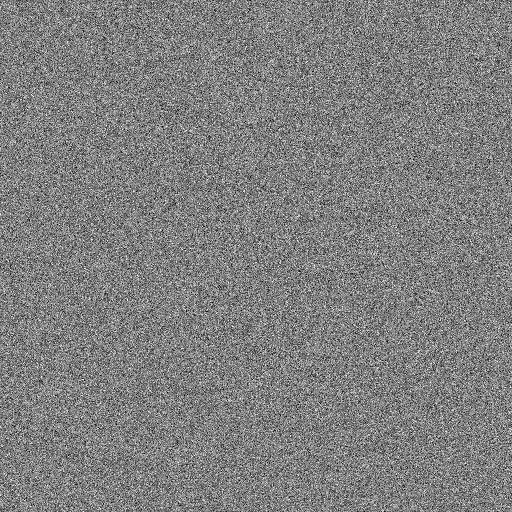
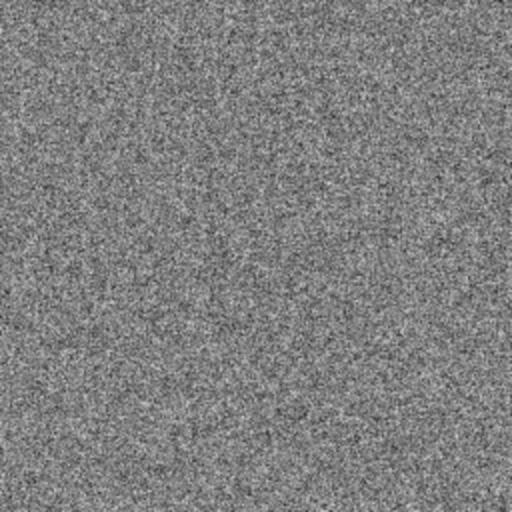
muestra: titulares centrados, márgenes parejos, efectos elegibles desde el guion, grano liviano
Claude-Session: https://claude.ai/code/session_01DZGBjr9SF15dibQgfaRJkd

diff --git a/plantilla/assets/lib/collage.js b/plantilla/assets/lib/collage.js
@@ -366,18 +366,32 @@
     var full = el.textContent;
     var dim = num(el, "data-dim", -1);
     el.textContent = "";
-    var txt = document.createElement("span"), cur = document.createElement("span");
-    cur.className = "cursor"; cur.textContent = "|";
-    el.appendChild(txt); el.appendChild(cur);
+    // lo que falta escribir ocupa su lugar (invisible) para que el texto centrado no se corra mientras se tipea
+    var txt = document.createElement("span"), cur = document.createElement("span"), rest = document.createElement("span");
+    cur.className = "cursor"; cur.textContent = "|"; rest.style.visibility = "hidden";
+    el.appendChild(txt); el.appendChild(cur); el.appendChild(rest);
     return function (t) {
       var n = Math.max(0, Math.min(full.length, Math.floor((t - t0) * cps) + 1));
       txt.textContent = t >= t0 ? full.slice(0, n) : "";
+      rest.textContent = t >= t0 ? full.slice(n) : full;
       var done = (t - t0) * cps >= full.length;
-      cur.style.opacity = t >= t0 && (!done || Math.floor(t * 2.5) % 2 === 0) && t < exitAt ? "1" : "0";
+      var tipos = el.parentNode.querySelectorAll(".cg-type");
+      var ultimo = tipos[tipos.length - 1] === el;   // el cursor queda titilando solo en la última línea
+      cur.style.opacity = t >= t0 && t < exitAt && (!done || (ultimo && Math.floor(t * 2.5) % 2 === 0)) ? "1" : "0";
       var q = prog(t, exitAt, 0.18);
       var dk = dim >= 0 ? 1 - 0.55 * prog(t, dim, 0.3) : 1;
       el.style.opacity = t >= t0 ? ((1 - q) * dk).toFixed(3) : "0";
       el.style.transform = "translateX(" + px(lerp(0, -1300, ease.inCubic(q))) + ")";
+    };
+  }
+
+  // Trazo de marcador recto (tachado): una barra que se estira de izquierda a derecha.
+  function mountBar(el) {
+    var t0 = num(el, "data-t", 0), d = num(el, "data-dur", 0.25), rot = num(el, "data-rot", -3);
+    return function (t) {
+      var k = ease.outCubic(prog(t, t0, d));
+      el.style.opacity = t >= t0 ? "0.92" : "0";
+      el.style.transform = "rotate(" + rot + "deg) scaleX(" + k.toFixed(4) + ")";
     };
   }
 
@@ -390,13 +404,13 @@
     };
   }
 
-  // Película vieja: grano que cambia 12 veces por segundo y una luz cálida que respira.
+  // Película vieja: grano que cambia 8 veces por segundo y una luz cálida que respira.
   function mountFilm(el, seed) {
     var g = el.querySelector(".grano"), l = el.querySelector(".luz");
     return function (t) {
-      var f = Math.floor(t * 12), r = rng(seed * 131 + f);
+      var f = Math.floor(t * 8), r = rng(seed * 131 + f);
       g.style.backgroundPosition = Math.floor(r() * 512) + "px " + Math.floor(r() * 512) + "px";
-      g.style.opacity = (0.16 + 0.05 * r()).toFixed(3);
+      g.style.opacity = (0.09 + 0.03 * r()).toFixed(3);
       var a = t * 0.35 + seed;
       l.style.opacity = (0.22 + 0.14 * Math.sin(a * 1.7)).toFixed(3);
       l.style.transform = "translate(" + px(260 * Math.sin(a)) + "," + px(380 * Math.cos(a * 0.8)) + ")";
@@ -443,6 +457,7 @@
     each(stage, ".cg-fade", function (el) { parts.push(mountFade(el, exitAt)); });
     each(stage, ".cg-type", function (el) { parts.push(mountType(el, exitAt)); });
     each(stage, ".cg-flash", function (el) { parts.push(mountFlash(el)); });
+    each(stage, ".cg-bar", function (el) { parts.push(mountBar(el)); });
     each(stage, ".cg-film", function (el) { parts.push(mountFilm(el, seed)); });
     var rip = stage.querySelector(".cg-rip");
     var foco = (stage.getAttribute("data-foco") || "").split(",").map(parseFloat);

diff --git a/plantilla/assets/lib/fabrica.css b/plantilla/assets/lib/fabrica.css
@@ -113,3 +113,8 @@
 .o-mapa .tierra path { fill: #F4EEDD; stroke: #1E1B18; stroke-opacity: .35; stroke-width: 1.4; stroke-linejoin: round; }
 .o-mapa .tierra-r path { fill: var(--acc); stroke: #1E1B18; stroke-opacity: .5; stroke-width: 1.6; }
 .o-mapa .pin { width: 34px; height: 34px; border-radius: 50%; background: var(--acc2); border: 6px solid #FFFDF7; box-shadow: 0 3px 6px rgba(0,0,0,.3); }
+.cg-kin.centro, .cg-type.centro { transform-origin: 50% 60%; }
+.cg-kin .kt { position: relative; display: inline-block; }
+.cg-kin.box.centro { padding: 0; background: none; }
+.cg-kin.box.centro .kt { padding: 6px 26px 0; background: var(--acc); }
+.cg-bar { position: absolute; left: -3%; width: 106%; border-radius: 8px; transform-origin: 0 50%; opacity: 0; }

diff --git a/fabrica/escenas.py b/fabrica/escenas.py
@@ -35,6 +35,8 @@ PALETAS = {
 }
 
 TRANS = ["up", "left", "right", "zoom", "rip"]   # rip = el papel se rasga y deja ver la escena nueva
+TRANSICIONES = {"rasgado": "rip", "arriba": "up", "izquierda": "left", "derecha": "right", "zoom": "zoom", "corte": "cut",
+                "rip": "rip", "up": "up", "left": "left", "right": "right", "cut": "cut"}
 MARCADOR = "#D2402E"   # rojo de marcador para círculos, flechas y tachados
 
 
@@ -116,16 +118,24 @@ class Escena:
         else:
             self.fx("papel", t, 0.18)
 
-    def kin(self, texto, t, x, y, size, desde="zoom", clase="", extra=""):
+    def kin(self, texto, t, x, y, size, desde="zoom", clase="", extra="", dentro=""):
+        """Texto gigante. x=None lo centra (lo mide el navegador): en todo el ancho arriba de y≈850 y, más abajo,
+        en la franja libre de los botones de las apps."""
         cls = ("acc " if es_acento(texto) else "") + clase
+        if x is None:
+            a, b = (110, 910) if y + size * 0.86 > 850 else (70, 1010)
+            pos, cls = f"left: {a}px; width: {b - a}px; text-align: center", cls + " centro"
+        else:
+            pos = f"left: {x}px"
+        cuerpo = f'<span class="kt">{escape(limpio(texto), quote=False)}{dentro}</span>'
         if desde == "type":   # máquina de escribir: letra por letra
             self.world.append(f'<div class="cg-type cg-kin-type {cls.strip()}" data-t="{t}" data-cps="18" {extra} '
-                              f'style="left: {x}px; top: {y}px; font-size: {size}px">{escape(limpio(texto), quote=False)}</div>')
+                              f'style="{pos}; top: {y}px; font-size: {size}px">{escape(limpio(texto), quote=False)}</div>')
             for i in range(len(limpio(texto))):
                 self.fx("tecla", t + i / 18, 0.12, pan=(i / max(1, len(texto)) - 0.5) * 0.6)
             return
         self.world.append(f'<div class="cg-kin {cls.strip()}" data-t="{t}" data-from="{desde}" {extra} '
-                          f'style="left: {x}px; top: {y}px; font-size: {size}px">{escape(limpio(texto), quote=False)}</div>')
+                          f'style="{pos}; top: {y}px; font-size: {size}px">{cuerpo}</div>')
         self.fx("golpe", t + 0.1, 0.42)
 
     def objeto(self, spec, t, cx, top, rot, max_h=560, max_w=900):
@@ -210,29 +220,27 @@ def golpe(E, esc):
     alto = sum(s * 0.86 + 14 for s in sizes)
     y = 270 + (980 - alto) / 2
     if esc.get("kicker"):
-        E.world.append(f'<div class="kick cg-fade" data-t="{PUSH + 0.05}" style="left: 76px; top: {y - 110:.0f}px">{escape(esc["kicker"], quote=False)}</div>')
+        E.world.append(f'<div class="kick cg-fade" data-t="{PUSH + 0.05}" style="left: 0; width: 1080px; text-align: center; top: {y - 110:.0f}px">{escape(esc["kicker"], quote=False)}</div>')
     desdes = ["zoom", "left", "up", "right", "zoom", "down"]
     E.r.shuffle(desdes)
-    estilo = esc.get("estilo") or ("impacto" if E.linea.get("emocion", 0.5) >= 0.85 else "")
+    estilo = esc.get("estilo") or ("impacto" if E.linea.get("emocion", 0.5) >= 0.85 else "normal")
+    if estilo not in ("normal", "maquina", "impacto"):
+        raise SystemExit(f"línea {E.idx}: estilo de golpe desconocido '{estilo}' (hay: normal, maquina, impacto)")
     desdes = ["slam" if estilo == "impacto" else "zoom"] + desdes
     for i, (p, s) in enumerate(zip(palabras, sizes)):
         t = E.cuando(item_en(p), E.reparto(i, len(palabras)))
         clase = "box" if es_acento(item_txt(p)) and E.r.random() < 0.35 and estilo != "maquina" else ""
         txt = item_txt(p)
         txt = ("*" + limpio(txt).upper() + "*") if es_acento(txt) else txt.upper()
-        extra = ""
+        extra, dentro = "", ""
         if isinstance(p, dict) and p.get("tachar_en"):   # la palabra aparece y después la tachan con marcador
             tt = E.cuando(p["tachar_en"], t + 0.8)
             extra = f'data-dim="{tt + 0.35}"'
-            w = len(limpio(txt)) * s * ANCHO["league"]
-            yy = y + s * 0.42
-            d = (f'<path d="M{50:.0f},{yy + 14:.0f} L{90 + w:.0f},{yy - 16:.0f}" stroke="{MARCADOR}" stroke-width="{max(14, s // 9)}"/>'
-                 f'<path d="M{60:.0f},{yy + 40:.0f} L{80 + w:.0f},{yy + 6:.0f}" stroke="{MARCADOR}" stroke-width="{max(10, s // 12)}"/>')
-            E.world.append(f'<svg class="cg-draw" data-t="{tt}" data-dur="0.4" width="1080" height="1920" viewBox="0 0 1080 1920" '
-                           f'style="left: 0; top: 0; z-index: 3" aria-hidden="true">{d}</svg>')
+            dentro = (f'<i class="cg-bar" data-t="{tt}" data-dur="0.22" data-rot="-4" style="top: 40%; height: {max(14, s // 9)}px; background: {MARCADOR}"></i>'
+                      f'<i class="cg-bar" data-t="{tt + 0.2}" data-dur="0.2" data-rot="-3" style="top: 60%; left: 2%; width: 94%; height: {max(10, s // 12)}px; background: {MARCADOR}"></i>')
             E.fx("marcador", tt, 0.3, d=0.4)
         desde = "type" if estilo == "maquina" else desdes[i % len(desdes)]
-        E.kin(txt, t, 70, int(y), s, desde, clase, extra)
+        E.kin(txt, t, None, int(y), s, desde, clase, extra, dentro)
         if desde == "slam":
             E.flash(t + 0.1)
         y += s * 0.86 + 14
@@ -259,10 +267,10 @@ def collage(E, esc):
     ys = [950, 1085]
     for i, p in enumerate(palabras):
         txt = limpio(item_txt(p)).upper()
-        size = cabe(txt, "gloock", 860, 128, 42, 68)
+        size = cabe(txt, "gloock", 790, 128, 42, 68)
         t = E.cuando(item_en(p), E.reparto(i + 1, len(palabras) + 1))
         izq = (i % 2 == 0) == (lado == "izq")
-        style = f"left: {E.r.choice([46, 60, 70])}px; top: {ys[i]}px" if izq else f"right: {E.r.choice([170, 180, 190])}px; top: {ys[i]}px"
+        style = f"left: {E.r.choice([100, 115, 130])}px; top: {ys[i]}px" if izq else f"right: {E.r.choice([170, 180, 190])}px; top: {ys[i]}px"
         E.tira("word", txt, t, style, size)
     if esc.get("sello"):
         t = E.cuando(esc.get("sello_en", esc["sello"]), E.reparto(2, 3))
@@ -291,7 +299,7 @@ def cifra(E, esc):
     if esc.get("palabra"):
         txt = esc["palabra"].upper()
         E.tira("word", txt, max(t + dur * 0.6, E.cuando(esc.get("palabra_en", esc["palabra"]), t + dur)),
-               f"right: {E.r.choice([170, 180, 190])}px; top: {min(1130, y):.0f}px", cabe(txt, "gloock", 860, 120, 42, 68))
+               f"right: {E.r.choice([170, 180, 190])}px; top: {min(1130, y):.0f}px", cabe(txt, "gloock", 790, 120, 42, 68))
     if esc.get("objeto"):
         spec = {k: v for k, v in esc["objeto"].items() if k != "en"}
         E.objeto(spec, t + dur + 0.2, 280, min(1080, y + 150), E.r.choice([-8, 8]), max_h=320, max_w=420)
@@ -310,15 +318,15 @@ def lista(E, esc):
     size = min(int(paso * 0.62), 76)
     for i, it in enumerate(items):
         txt = item_txt(it)
-        sz = min(size, cabe(txt.upper(), "tag", 820, 76, 36, 48))
+        sz = min(size, cabe(txt.upper(), "tag", 760, 76, 36, 48))
         t = E.cuando(item_en(it), E.reparto(i, len(items) + (1 if remate else 0)))
-        x = 70 + (110 if i % 2 else 0) + E.r.randint(-12, 12)
+        x = 110 + (80 if i % 2 else 0) + E.r.randint(-12, 12)
         prefijo = f"{i + 1}. " if esc.get("numerada") else ""
         E.tira("tag", prefijo + txt.upper(), t, f"left: {x}px; top: {y0 + i * paso:.0f}px", sz, rot=E.r.choice([-2, -1, 1, 2]))
     if remate:
         txt = limpio(item_txt(remate)).upper()
         t = E.cuando(item_en(remate), E.reparto(len(items), len(items) + 1))
-        E.tira("word", txt, t, f"right: {E.r.choice([170, 180, 190])}px; top: {min(1120, y0 + len(items) * paso + 30):.0f}px", cabe(txt, "gloock", 860, 120, 42, 68))
+        E.tira("word", txt, t, f"right: {E.r.choice([170, 180, 190])}px; top: {min(1120, y0 + len(items) * paso + 30):.0f}px", cabe(txt, "gloock", 790, 120, 42, 68))
 
 
 def cita(E, esc):
@@ -354,7 +362,7 @@ def cierre(E, esc):
         size = cabe(limpio(txt).upper(), "league", 900, 300 if i else 200, 90)
         t = E.cuando(item_en(p), E.reparto(i, len(titulo) + 2))
         up = ("*" + limpio(txt).upper() + "*") if es_acento(txt) else txt.upper()
-        E.kin(up, t, 70, y, size, "zoom" if i == 0 else "left", "" if es_acento(txt) else "ink")
+        E.kin(up, t, None, y, size, "zoom" if i == 0 else "left", "" if es_acento(txt) else "ink")
         y += size * 0.86 + 16
     if esc.get("objeto"):
         spec = {k: v for k, v in esc["objeto"].items() if k != "en"}
@@ -365,9 +373,9 @@ def cierre(E, esc):
         partes = [p.strip() for p in re.split(r"(?<=[?.!])\s+", cta) if p.strip()]
         primera, resto = partes[0], " ".join(partes[1:])
         yc = min(1000, max(y + 60, 940))
-        E.tira("label", primera, E.cuando(primera, E.reparto(1, 2)), f"left: 50px; top: {yc:.0f}px; width: 840px", cabe(primera, "news", 840, 84, 46, 68))
+        E.tira("label", primera, E.cuando(primera, E.reparto(1, 2)), f"left: 120px; top: {yc:.0f}px; width: 790px", cabe(primera, "news", 790, 84, 46, 68))
         if resto:
-            E.tira("tag", resto.upper(), E.cuando(resto, E.reparto(2, 3)), f"left: 60px; top: {min(1150, yc + 150):.0f}px", cabe(resto.upper(), "tag", 820, 58, 32, 48))
+            E.tira("tag", resto.upper(), E.cuando(resto, E.reparto(2, 3)), f"left: 130px; top: {min(1150, yc + 150):.0f}px", cabe(resto.upper(), "tag", 760, 58, 32, 48))
 
 
 def foto(E, esc):
@@ -402,8 +410,8 @@ def foto(E, esc):
     for i, p in enumerate(palabras):
         txt = limpio(item_txt(p)).upper()
         t = E.cuando(item_en(p), E.reparto(i + 1, len(palabras) + 1))
-        style = f"left: {E.r.choice([46, 60])}px; top: {ys[i]}px" if i % 2 == 0 else f"right: {E.r.choice([170, 180, 190])}px; top: {ys[i]}px"
-        E.tira("word", txt, t, style, cabe(txt, "gloock", 860, 118, 42, 68))
+        style = f"left: {E.r.choice([100, 120])}px; top: {ys[i]}px" if i % 2 == 0 else f"right: {E.r.choice([170, 180, 190])}px; top: {ys[i]}px"
+        E.tira("word", txt, t, style, cabe(txt, "gloock", 790, 118, 42, 68))
     if esc.get("sello"):
         t = E.cuando(esc.get("sello_en", esc["sello"]), E.reparto(2, 3))
         E.sello(esc["sello"].upper(), t, f"right: {E.r.choice([180, 220])}px; top: {min(1000, top + alto - 160)}px", E.r.choice([-9, 7]))
@@ -493,7 +501,7 @@ def jugada(E, esc):
     E.fx("whoosh", t_shot, 0.3, d=1.0)
     for i, p in enumerate(esc.get("palabras", [])[:1]):
         txt = limpio(item_txt(p)).upper()
-        E.tira("word", txt, E.cuando(item_en(p), t_shot), "left: 50px; top: 1130px" if izq else f"right: {E.r.choice([170, 180, 190])}px; top: 1110px", cabe(txt, "gloock", 860, 124, 42, 68))
+        E.tira("word", txt, E.cuando(item_en(p), t_shot), "left: 110px; top: 1130px" if izq else f"right: {E.r.choice([170, 180, 190])}px; top: 1110px", cabe(txt, "gloock", 790, 124, 42, 68))
     sello = esc.get("sello", "¡AFUERA!" if afuera else "¡GOL!")
     if sello:
         pos = "left: 600px; top: 480px" if afuera else ("left: 110px; top: 780px" if izq else "left: 600px; top: 780px")
@@ -506,7 +514,7 @@ def dupla(E, esc):
     partes = esc.get("partes", [])[:2]
     y = 340
     if esc.get("kicker"):
-        E.world.append(f'<div class="kick cg-fade" data-t="{PUSH + 0.05}" style="left: 76px; top: 240px">{escape(esc["kicker"], quote=False)}</div>')
+        E.world.append(f'<div class="kick cg-fade" data-t="{PUSH + 0.05}" style="left: 0; width: 1080px; text-align: center; top: 240px">{escape(esc["kicker"], quote=False)}</div>')
     alto_obj = 260
     for i, parte in enumerate(partes):
         p = parte.get("palabra", "")
@@ -514,7 +522,7 @@ def dupla(E, esc):
         txt = ("*" + limpio(txt).upper() + "*") if es_acento(txt) else txt.upper()
         size = cabe(limpio(txt), "league", 940, 190, 90)
         t = E.cuando(item_en(p), E.reparto(i, len(partes)))
-        E.kin(txt, t, 70, y, size, "zoom" if i == 0 else "left")
+        E.kin(txt, t, None, y, size, "zoom" if i == 0 else "left")
         y += int(size * 0.86) + 24
         if parte.get("objeto"):
             spec = {k: v for k, v in parte["objeto"].items() if k != "en"}
@@ -575,7 +583,7 @@ def mapa(E, esc):
     for p in palabras:
         txt = limpio(item_txt(p)).upper()
         E.tira("word", txt, E.cuando(item_en(p), tr + dur), f"right: {E.r.choice([170, 180, 190])}px; top: {top + H + 20}px",
-               cabe(txt, "gloock", 860, 118, 42, 68))
+               cabe(txt, "gloock", 790, 118, 42, 68))
     E.zoom = 0.05
 
 
@@ -609,13 +617,17 @@ def armar(guion, timings, slug):
         E = Escena(i + 1, ln, tl, S, dur, pal, random.Random(seed + i * 7919), fondo)
         TIPOS[tipo](E, esc)
         climax = ln.get("emocion", 0.5) >= 0.85
-        if climax and not any("cg-flash" in c for c in E.capa):
+        destello = esc.get("destello", climax)   # el guion puede pedirlo o apagarlo; si no dice nada, va en el clímax
+        if destello and not any("cg-flash" in c for c in E.capa):
             E.flash(PUSH + 0.02)
         if i == 0:
             trans = None
         else:
             opciones = ["cut", "zoom"] if tipo == "golpe" else [t for t in TRANS if t != trans_prev]
-            trans = esc.get("transicion") or rnd.choice(opciones)
+            pedida = esc.get("transicion")
+            if pedida and pedida not in TRANSICIONES:
+                raise SystemExit(f"línea {i + 1}: transición desconocida '{pedida}' (hay: rasgado, arriba, izquierda, derecha, zoom, corte)")
+            trans = TRANSICIONES[pedida] if pedida else rnd.choice(opciones)
         if trans == "rip":
             E.fx("rasgado", 0.0, 0.34)
         elif trans and trans != "cut":
@@ -625,7 +637,7 @@ def armar(guion, timings, slug):
         bg = pal["bgs"][(bg_off + i) % len(pal["bgs"])]
         escenas.append(dict(id=f"s{i + 1}-{tipo}", start=S, dur=dur, bg=bg, solid=fondo == "solido", trans=trans,
                             world=E.world, seed=seed % 997 + i * 13, pal=pal, zoom=E.zoom, foco=E.foco, capa=E.capa,
-                            textura=guion.get("textura"), shake=26 if climax else None))
+                            textura=esc.get("textura", guion.get("textura")), shake=26 if destello else None))
         sfx += E.sfx
         trans_prev = trans
     for i, s in enumerate(escenas):

diff --git a/fabrica/make_short.py b/fabrica/make_short.py
@@ -45,9 +45,18 @@ def validar(g):
             err.append(f"línea {i}: falta 'say'")
         if re.search(r"\d", ln.get("say", "")):
             err.append(f"línea {i}: 'say' tiene cifras; escribilas en letras (los números con cifras van en 'sub')")
-        t = (ln.get("escena") or {}).get("tipo", "golpe")
+        esc = ln.get("escena") or {}
+        t = esc.get("tipo", "golpe")
         if t not in TIPOS:
             err.append(f"línea {i}: tipo de escena '{t}' no existe ({', '.join(sorted(TIPOS))})")
+        if esc.get("transicion") and esc["transicion"] not in ("rasgado", "arriba", "izquierda", "derecha", "zoom", "corte"):
+            err.append(f"línea {i}: transición '{esc['transicion']}' no existe (rasgado, arriba, izquierda, derecha, zoom, corte)")
+        if t == "golpe" and esc.get("estilo", "normal") not in ("normal", "maquina", "impacto"):
+            err.append(f"línea {i}: estilo de golpe '{esc['estilo']}' no existe (normal, maquina, impacto)")
+        if t == "mapa" and not all(k in esc.get(c, {}) for c in ("desde", "hasta") for k in ("lat", "lon")):
+            err.append(f"línea {i}: el mapa necesita 'desde' y 'hasta' con lat y lon")
+    if g.get("textura", "ninguna") not in ("pelicula", "ninguna"):
+        err.append(f"textura '{g['textura']}' no existe (pelicula, ninguna)")
     total = sum(len(ln.get("say", "")) for ln in ls)
     if total > max_c:
         err.append(f"el texto suma {total} caracteres (≈ {total / 15:.0f} s); el máximo es {max_c}"

diff --git a/CLAUDE.md b/CLAUDE.md
@@ -12,7 +12,7 @@ El guion **siempre pasa por Carlos antes de fabricarse**. Dos tiempos:
 1. **Investigar** el tema con búsqueda web. Cada dato del guion tiene que estar verificado; anotar las fuentes en `"fuentes"`.
    Si algo no se puede confirmar, no va.
 2. **Mostrar el guion en el chat** como una tabla, una fila por línea:
-   `# | Voz (say) | En pantalla (tipo de escena + textos + objeto) | Emoción`
+   `# | Voz (say) | En pantalla (tipo de escena + textos + objeto + efecto) | Emoción`
    y arriba, en una línea: paleta · ánimo de la música · ambiente · duración estimada (caracteres / 15 ≈ segundos).
    Debajo, el título y la descripción de la publicación. Terminar preguntando qué cambiar.
    **Además**, cargar el guion en la *Mesa de guiones* (https://claude.ai/artifact/BhPC4PrHy9mLcGiBbWBair) con
@@ -85,7 +85,7 @@ Al publicar un video, marcar su tema como `hecho`. Para sumar ideas, agregar doc
 - `emocion` por línea (0 = calmo, 1 = muy intenso): varía la entonación de la voz clonada. Usar 0.4–0.6 de base y
   0.75–0.9 en el clímax.
 - `pausa` (s) después de cada línea: 0.4–0.6 normal, 1–1.4 antes y después de una frase textual.
-- **Variar** de un video a otro: tipos de escena, paleta, ánimo musical, objeto. YouTube desmonetiza contenido
+- **Variar** de un video a otro: tipos de escena, paleta, ánimo musical, objeto y **efectos** (ver "Efectos"). YouTube desmonetiza contenido
   "repetitivo o de plantilla", así que no repetir la misma secuencia de escenas dos videos seguidos.
 
 ## Formato de `guion.json`
@@ -119,6 +119,28 @@ Al publicar un video, marcar su tema como `hecho`. Para sumar ideas, agregar doc
 | `jugada` | una jugada dibujada: corrida punteada, rivales y arquero de papel, y el remate | `etiqueta`?, `corrida_en`, `remate_en`, `sentido` (izquierda\|derecha), `rivales` (0–3), `arquero` (parado\|eludido), `resultado` (gol\|afuera), `arquero_color`?, `rival_color`?, `palabras` (1)?, `sello`? |
 | `dupla` | dos palabras grandes, cada una con su objeto de papel abajo (ej. MILLONARIO + billetes / GALLINA + gallina) | `partes` [{`palabra`, `objeto`}, {…}], `kicker`? |
 | `cierre` | final + pregunta | `titulo` (renglones), `cta`, `objeto`? |
+| `mapa` | un viaje o un lugar: mapa de papel con el recorrido punteado (barco o avión) | `desde` {`nombre`, `lat`, `lon`}, `hasta` {…}, `resaltar`? ["Egipto"], `vehiculo`? (avion\|barco), `ruta_en`?, `etiqueta`?, `palabras` (1)? |
+
+### Efectos (los elige Claude al escribir cada guion)
+
+Cada efecto se pide en la escena de la línea. **Elegirlos pensando en la historia**: 2 a 4 efectos destacados por video,
+no más de uno por escena, y **nunca la misma combinación que el video anterior** (es lo que hace que no sean todos iguales).
+Si una línea no dice nada, la fábrica decide sola (transición al azar, destello en el clímax).
+
+| efecto | dónde | cómo se pide | cuándo usarlo |
+|---|---|---|---|
+| transición | cualquier escena (desde la 2) | `"transicion": "rasgado"` (o `arriba`, `izquierda`, `derecha`, `zoom`, `corte`) | rasgado: cambio de época, giro, "pero…" |
+| máquina de escribir | `golpe` | `"estilo": "maquina"` | fechas, lugares, documentos, el comienzo de un caso |
+| impacto | `golpe` | `"estilo": "impacto"` (sale solo con emoción ≥ 0,85) | la revelación, el golpe fuerte |
+| tachado | palabra de un `golpe` | `{"texto": "ABANDONAR", "en": "abandonar", "tachar_en": "última"}` | algo que iba a pasar y no pasó, un error, un mito desmentido |
+| marcador | `foto` | `"marca": {"forma": "circulo"\|"flecha"\|"subrayado", "x", "y", "w", "h", "texto"?, "en"?}` (x, y, w, h de 0 a 1 sobre la foto) | señalar una cara, un detalle, "mirá esto" |
+| lupa | `foto` | `"lupa": {"x", "y", "z"? (0.25), "en"?}` | acercarse a un detalle mientras la voz lo nombra |
+| destello | cualquier escena | `"destello": true` / `false` (por defecto: emoción ≥ 0,85) | el clímax; apagarlo si hay muchos seguidos |
+| película vieja | todo el video | `"textura": "pelicula"` (en el guion, afuera de las líneas) | historias de antes de ~1970 |
+| mapa | escena propia | tipo `mapa` | viajes, de dónde vino alguien, dónde pasó |
+
+Para ubicar `marca` y `lupa` hace falta haber visto la foto (la hoja de *Buscar imágenes* sirve). En la tabla del guion y en
+la Mesa, nombrar el efecto en la columna "En pantalla" (ej. "foto del sello + círculo «los sellos» + lupa").
 
 Categoría de YouTube en `publicar.categoria_youtube`: 17 deportes, 24 entretenimiento (por defecto), 27 educación, 10 música, 25 noticias.
 

diff --git a/RUTINA.md b/RUTINA.md
@@ -61,7 +61,8 @@ Si Carlos edita un guion ya fabricado, vuelve a `con cambios` y hay que aprobarl
 4. Para cada tema: investigar con búsqueda web (cada dato con 2 fuentes si se puede; si no se confirma, no va),
    buscar fotos libres (push de `investigacion/<slug>/consultas.json` → el flujo *Buscar imágenes* devuelve
    `resultados.json` en ~2 min) y escribir el `guion.json` según `CLAUDE.md` (si la historia necesita más de 60 s
-   para entenderse: `"largo": true`).
+   para entenderse: `"largo": true`). Elegir 2 a 4 **efectos** para esa historia (tabla "Efectos" de `CLAUDE.md`),
+   distintos de los del guion anterior, y nombrarlos en la columna "En pantalla".
 5. Validar sin render: `.venv/bin/python fabrica/make_short.py <ruta>/guion.json --sin-render --motor kokoro`
    (si no hay `.venv`: `bash setup.sh sin-voz`). Con fotos de Commons bloqueadas desde la sesión, alcanza con
    `validar()` de `make_short.py`. **No pushear el guion** (el push dispara la fábrica).
